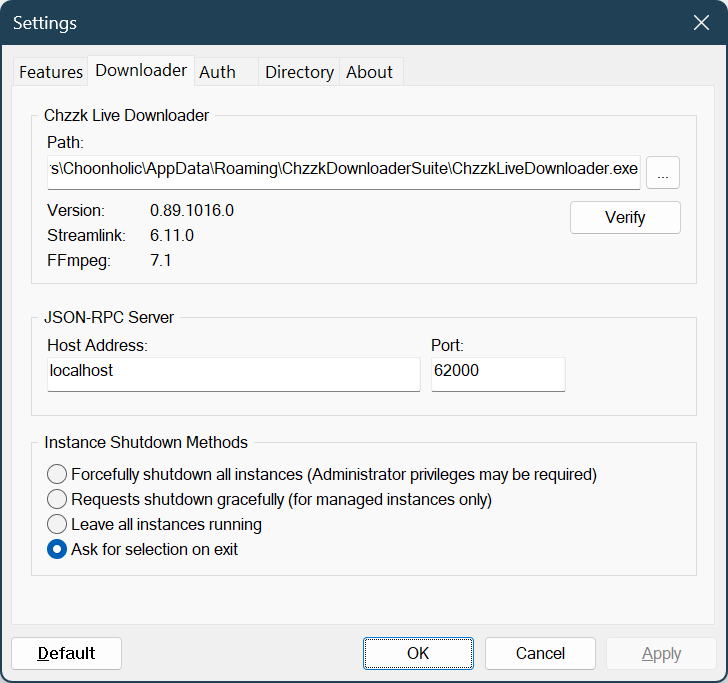
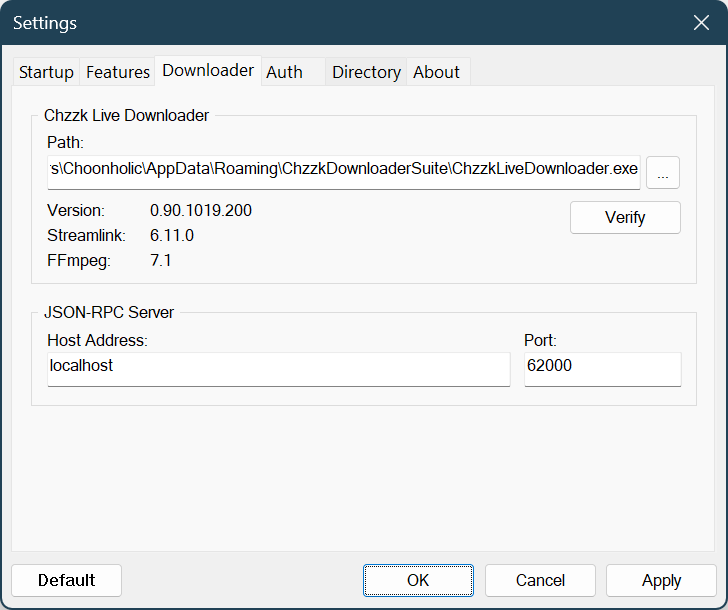
Version 0.90

diff --git a/samples/json_rpc_test.py b/samples/json_rpc_test.py
@@ -30,7 +30,7 @@ def send_request(host, port, request):
                         print(f"Error connecting to server: {e}")
                         return None
 
-            request_data = json.dumps(request) + '\n'
+            request_data = json.dumps(request)
 
             try:
                 client_socket.sendall(request_data.encode())
@@ -93,7 +93,7 @@ if __name__ == "__main__":
         while True:
             command = input('Command? ')
 
-            if command in ['get_version', 'get_settings', 'get_channel', 'get_channelex', 'get_status', 'get_statusex', 'get_live', 'get_video', 'get_clip', 'skip_current', 'quit_app']:
+            if command in ['get_allinfo', 'get_version', 'get_settings', 'get_channel', 'get_channelex', 'get_status', 'get_statusex', 'get_live', 'get_video', 'get_clip', 'skip_current', 'quit_app']:
                 request = {
                     "jsonrpc": "2.0",
                     "method": command,

diff --git a/doc/chzzk_launcher_manual.md b/doc/chzzk_launcher_manual.md
@@ -7,7 +7,7 @@ Graphical Launcher for Chzzk Live Downloader
 </div>
 
 ## Version
-Version 0.89, October 16, 2024 00:00:00
+Version 0.90, October 19, 2024 02:00:00
 
 ## Prerequisites
 Since Chzzk Launcher is the GUI frontend application for Chzzk Live Downloader, Chzzk Live Downloader must be installed as well.
@@ -157,7 +157,7 @@ To refresh the list immediately, click the ☰ icon, and choose `Refresh`.
 If you frequently manage a fixed set of channels, manually loading the list each time can become tedious. By enabling the following setting, the specified channel list will be automatically loaded at startup.
 
 * Click the ☰ icon, and choose `Settings...` to open the settings dialog box.
-* In the `Features` tab, check `Load Channels at Startup`. Then, click the **...** button next to the `Path:` field and select the channel list file you want to load.
+* In the `Startup` tab, check `Load channels at startup`. Then, click the **...** button next to the `Path:` field and select the channel list file you want to load.
 * From the next startup onward, the specified channel list will be automatically loaded.
 
 <div style='text-align: center'>
@@ -171,11 +171,11 @@ Since Chzzk Live Downloader can run independently without Chzzk Launcher, it may
 However, even in such cases, you can configure the following settings to automatically detect and add the running instance to the channel list for management at startup.
 
 <div style='text-align: center'>
-<img src='../img/screenshots/launcher_settings_initial_scan.png' />
+<img src='../img/screenshots/launcher_settings_scan_startup.png' />
 <p><i>(This image may not reflect the latest information.)</i></p>
 </div>
 
-* Check `Scan Running Instances at Startup` in the `Features` tab.
+* Check `Scan running instances at startup` in the `Startup` tab.
 * Set the range of IDs to scan in the `ID Ranges to Scan` field. The ID is the value specified with the `-i` or `--id` parameter when running Chzzk Live Downloader. For example, if it was run as shown below, specify `3` in the scan range.
 
 ```
@@ -238,7 +238,32 @@ To continue using Launcher:
 
 You can preset this feature in the `Downloader` tab of the settings, instead of choosing it each time on exit.
 
+## Moving to Tray on Minimize
+If the `Move to tray on minimize` option is enabled in `Features` settings, Chzzk Launcher will move to the system tray when minimized.
+
+<div style='text-align: center'>
+<img src='../img/screenshots/launcher_tray_icon.png' />
+<p><i>(This image may not reflect the latest information.)</i></p>
+</div>
+
+Double-clicking tray icon will restore the window to its original state, and right-clicking on the tray icon will display a menu, as shown in the following image.
+
+<div style='text-align: center'>
+<img src='../img/screenshots/launcher_tray_menu.png' />
+<p><i>(This image may not reflect the latest information.)</i></p>
+</div>
+
 ## Other Settings
+
+### Startup
+
+<div style='text-align: center'>
+<img src='../img/screenshots/launcher_settings_startup.png' />
+<p><i>(This image may not reflect the latest information.)</i></p>
+</div>
+
+* **Start Chzzk Launcher automatically when signing in to Windows** - Puts Chzzk Launcher into startup list of Windows.
+* **Check latest updates of Chzzk Launcher at startup** - Decides whether check latest updates of Chzzk Launcher at startup or not. Otherwise, Click `Check Updates` button to check updates manually.
 
 ### Features
 
@@ -249,6 +274,7 @@ You can preset this feature in the `Downloader` tab of the settings, instead of 
 
 * **Update Interval (Seconds)** - Sets the screen refresh interval for the list. This only affects the display and is not related to the download detection interval. The download detection interval of Chzzk Live Downloader is set to 10 seconds by default and is designed to avoid being impacted by API rate limits, unlike other tools.
 * **Performance Level** - Specify the performance of the system where Chzzk Launcher is currently running. If you encounter errors due to timeouts when adding or refreshing channels, try lowering the performance level by one step and attempt again.
+* **Instance Shutdown Methods** - The Shutdown Method can be predefined, eliminating the need to select it each time in the Exit dialog.
 
 ### Downloader
 
@@ -259,7 +285,6 @@ You can preset this feature in the `Downloader` tab of the settings, instead of 
 
 * **JSON-RPC Server: Host Address** - Sets the host address of the JSON-RPC server.
 * **JSON-RPC Server: Port** - Sets the port number for the JSON-RPC server.
-* **Instance Shutdown Methods** - The Shutdown Method can be predefined, eliminating the need to select it each time in the Exit dialog.
 
 ### Directory
 

diff --git a/README.md b/README.md
@@ -4,11 +4,16 @@ Downloader for live streams, replay videos and clips of Chzzk.
 ## Downloads
 https://blog.choonholic.com/downloads
 
+<div style='text-align: center'>
+<img src='img/screenshots/screenshot_chzzklauncher.png' />
+<p><i>(This image may not reflect the latest information.)</i></p>
+</div>
+
 ## Chzzk Live Downloader
 Downloader for Chzzk live streams
 
 ## Version
-Version 0.89, October 16, 2024 00:00:00
+Version 0.90, October 19, 2024 02:00:00
 
 ### Prerequisites For Executables
 * **[Mandatory]** Latest version of ffmpeg binary. (ffmpeg 7.1 is recommended.)
@@ -69,7 +74,7 @@ ChzzkLiveDownloader -i 2 --thumb --detect 30 --work work --out out --temp temp
 Downloader for Chzzk replay videos
 
 ## Version
-Version 0.89, October 16, 2024 00:00:00
+Version 0.90, October 19, 2024 02:00:00
 
 ### Usage
 ```powershell
@@ -122,7 +127,7 @@ ChzzkVideoDownloader 1602969 --thumb --work work --out out --temp temp
 Downloader for Chzzk clips
 
 ## Version
-Version 0.89, October 16, 2024 00:00:00
+Version 0.90, October 19, 2024 02:00:00
 
 ### Usage
 ```powershell

diff --git a/doc/how_to_control_chzzk_clip_downloader.md b/doc/how_to_control_chzzk_clip_downloader.md
@@ -21,8 +21,6 @@ To request action from Chzzk Clip Downloader, send the object like below through
 }
 ```
 
-Each request must include a **Carriage Return (CR, `0x0D`)** character at the end.
-
 ### Method List
 * `get_version` – Retrieves the application version.
 * `get_settings` – Retrieves the application settings.

diff --git a/doc/how_to_control_chzzk_live_downloader.md b/doc/how_to_control_chzzk_live_downloader.md
@@ -23,8 +23,6 @@ To request action from Chzzk Live Downloader, send the object like below through
 }
 ```
 
-Each request must include a **Carriage Return (CR, `0x0D`)** character at the end.
-
 ### Method List
 * `get_version` – Retrieves the application version.
 * `get_settings` – Retrieves the application settings.

diff --git a/doc/how_to_control_chzzk_video_downloader.md b/doc/how_to_control_chzzk_video_downloader.md
@@ -21,8 +21,6 @@ To request action from Chzzk Video Downloader, send the object like below throug
 }
 ```
 
-Each request must include a **Carriage Return (CR, `0x0D`)** character at the end.
-
 ### Method List
 * `get_version` – Retrieves the application version.
 * `get_settings` – Retrieves the application settings.

diff --git a/doc/chzzk_live_downloader_manual.md b/doc/chzzk_live_downloader_manual.md
@@ -7,7 +7,7 @@ Downloader for Chzzk live streams
 </div>
 
 ## Version
-Version 0.89, October 16, 2024 00:00:00
+Version 0.90, October 19, 2024 02:00:00
 
 ## Prerequisites
 * **[Mandatory]** Latest version of ffmpeg binary. (ffmpeg 7.1 is recommended.)

diff --git a/doc/chzzk_video_downloader_manual.md b/doc/chzzk_video_downloader_manual.md
@@ -7,7 +7,7 @@ Downloader for Chzzk replay videos
 </div>
 
 ## Version
-Version 0.89, October 16, 2024 00:00:00
+Version 0.90, October 19, 2024 02:00:00
 
 ## Usage
 ```powershell

diff --git a/doc/chzzk_clip_downloader_manual.md b/doc/chzzk_clip_downloader_manual.md
@@ -7,7 +7,7 @@ Downloader for Chzzk clips
 </div>
 
 ## Version
-Version 0.89, October 16, 2024 00:00:00
+Version 0.90, October 19, 2024 02:00:00
 
 ## Usage
 ```powershell
